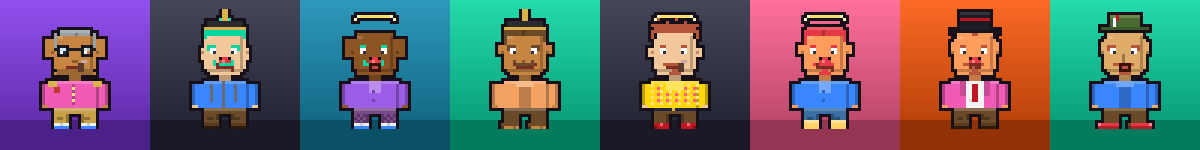
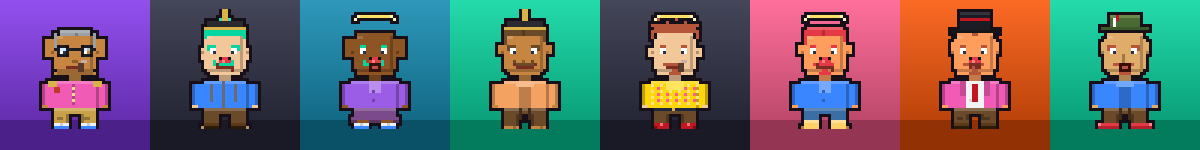
feat(generator): add dress & mini-skirt trousers; hi-vis centre uses topColor
Two new skirt-style trousers options (dress = long A-line skirt, mini-skirt = short skirt with bare legs) in front and profile, wired into the editor and AI. The hi-vis vest's centre panel now follows topColor instead of hardcoded grey; the body stays safety-orange.

diff --git a/packages/generator/src/parts.ts b/packages/generator/src/parts.ts
@@ -68,6 +68,23 @@ export function drawTrousers(g: Ctx2D, id: PartId<"trousers">, color: string, sk
     P(g, 17, 38, 6, 2, PC);
     P(g, 8, 39, 6, 1, d);
     P(g, 17, 39, 6, 1, d);
+  } else if (id === "dress") {
+    // long A-line skirt covering the legs
+    P(g, 9, 35, 14, 1, PC);
+    P(g, 8, 36, 16, 2, PC);
+    P(g, 7, 38, 18, 2, PC);
+    P(g, 7, 39, 18, 1, d); // hem
+    P(g, 13, 35, 1, 5, d); // centre fold
+    P(g, 18, 36, 1, 3, d); // side fold
+  } else if (id === "mini-skirt") {
+    // short skirt with bare legs below
+    P(g, 9, 35, 14, 1, PC);
+    P(g, 8, 36, 16, 1, PC);
+    P(g, 8, 37, 16, 1, d); // hem
+    P(g, 10, 37, 4, 3, skin); // left leg
+    P(g, 18, 37, 4, 3, skin); // right leg
+    P(g, 9, 39, 5, 1, shade(skin, -0.25));
+    P(g, 18, 39, 5, 1, shade(skin, -0.25));
   } else {
     P(g, 9, 35, 5, 5, PC);
     P(g, 18, 35, 5, 5, PC);
@@ -152,10 +169,10 @@ export function drawTop(g: Ctx2D, id: PartId<"top">, cloth: string, skin: string
       P(g, 13, 24, 6, 2, shade(cloth, 0.28)); // collar
       break;
     case "hi-vis-vest":
-      P(g, 7, 24, 18, 9, "#ff7a00");
-      P(g, 9, 26, 14, 1, "#e8e8e8");
+      P(g, 7, 24, 18, 9, "#ff7a00"); // safety-orange vest (fixed)
+      P(g, 9, 26, 14, 1, "#e8e8e8"); // reflective stripes (on the orange)
       P(g, 9, 29, 14, 1, "#e8e8e8");
-      P(g, 13, 24, 6, 9, "#3a3a3a");
+      P(g, 13, 24, 6, 9, cloth); // garment showing through the open middle → topColor
       break;
     case "leather-jacket":
       // jacket keeps the configured `cloth` colour from the base fill
@@ -638,11 +655,23 @@ export function drawSide(
 ): void {
   const sd = shade(skin, -0.22);
   const h = hairColor;
-  // legs
+  // legs (or a skirt silhouette for dress / mini-skirt)
   const PC = pants;
-  P(g, 11, 33, 5, 7, shade(PC, -0.2)); // back leg
-  P(g, 15, 33, 5, 7, PC); // front leg
-  P(g, 11, 33, 9, 2, shade(PC, 0.15)); // hip/belt
+  if (s.trousers === "dress") {
+    P(g, 11, 33, 9, 2, shade(PC, 0.15)); // waist
+    P(g, 11, 35, 9, 2, PC);
+    P(g, 10, 37, 11, 3, PC); // flare
+    P(g, 10, 39, 11, 1, shade(PC, -0.28)); // hem
+  } else if (s.trousers === "mini-skirt") {
+    P(g, 11, 33, 9, 2, shade(PC, 0.15)); // waist
+    P(g, 11, 35, 9, 2, PC); // short skirt
+    P(g, 10, 36, 11, 1, shade(PC, -0.28)); // hem
+    P(g, 13, 37, 5, 3, skin); // bare leg
+  } else {
+    P(g, 11, 33, 5, 7, shade(PC, -0.2)); // back leg
+    P(g, 15, 33, 5, 7, PC); // front leg
+    P(g, 11, 33, 9, 2, shade(PC, 0.15)); // hip/belt
+  }
   drawShoesSide(g, s.shoes, skin);
   // torso
   const suit = s.top === "suit";

diff --git a/packages/generator/src/palettes.ts b/packages/generator/src/palettes.ts
@@ -12,7 +12,7 @@ export const PARTS = {
   nose: ["button", "aquiline", "bulbous", "pointed", "wide", "hooked", "snub", "clown"],
   mouth: ["smile", "grimace", "pout", "grin", "scream", "line", "snarl", "whistle"],
   top: ["suit", "shirt", "uniform", "sweater", "hawaiian", "robe", "hi-vis-vest", "leather-jacket"],
-  trousers: ["suit-trousers", "jeans", "cargo", "shorts", "bell-bottoms", "sweatpants", "lederhosen", "plaid"],
+  trousers: ["suit-trousers", "jeans", "cargo", "shorts", "bell-bottoms", "sweatpants", "lederhosen", "plaid", "dress", "mini-skirt"],
   build: ["small", "medium", "large"],
   accessory: ["none", "nerd-glasses", "round-glasses", "sunglasses", "monocle", "full-beard", "moustache", "goatee"],
   shoes: ["sneakers", "boots", "dress-shoes", "sandals", "heels", "rubber-boots", "clown-shoes", "none"],
@@ -32,7 +32,7 @@ export const PART_LABELS: Record<PartKey, readonly string[]> = {
   nose: ["Button", "Aquiline", "Bulbous", "Pointed", "Wide", "Hooked", "Snub", "Clown"],
   mouth: ["Smile", "Grimace", "Pout", "Grin", "Scream", "Line", "Snarl", "Whistle"],
   top: ["Suit", "Shirt", "Uniform", "Sweater", "Hawaiian", "Robe", "Hi-Vis Vest", "Leather Jacket"],
-  trousers: ["Suit Trousers", "Jeans", "Cargo", "Shorts", "Bell-Bottoms", "Sweatpants", "Lederhosen", "Plaid"],
+  trousers: ["Suit Trousers", "Jeans", "Cargo", "Shorts", "Bell-Bottoms", "Sweatpants", "Lederhosen", "Plaid", "Dress", "Mini Skirt"],
   build: ["Small", "Medium", "Large"],
   accessory: ["None", "Nerd Glasses", "Round Glasses", "Sunglasses", "Monocle", "Full Beard", "Moustache", "Goatee"],
   shoes: ["Sneakers", "Boots", "Dress Shoes", "Sandals", "Heels", "Rubber Boots", "Clown Shoes", "Barefoot"],

diff --git a/demo/src/ai.ts b/demo/src/ai.ts
@@ -119,6 +119,8 @@ const HINTS: Record<string, string> = {
   mullet: "short on top, long at the back",
   "blow-wave": "voluminous blow-dried hair",
   bun: "hair tied up in a bun (pulled back)",
+  dress: "a long skirt / dress that covers the legs",
+  "mini-skirt": "a short skirt with bare legs below",
 };
 
 /** Per-field spec: the question label, allowed values, labels/hints, and optional name→hex map. */

diff --git a/.changeset/dress-skirt-hivis.md b/.changeset/dress-skirt-hivis.md
@@ -1,0 +1,8 @@
+---
+"@retro-antlitz-kartei/generator": minor
+---
+
+Add two skirt-style `trousers` options — `dress` (a long A-line skirt) and
+`mini-skirt` (a short skirt with bare legs) — in front and profile views. Also
+make the hi-vis vest's centre panel follow `topColor` instead of a hardcoded
+grey (the vest body stays safety-orange).